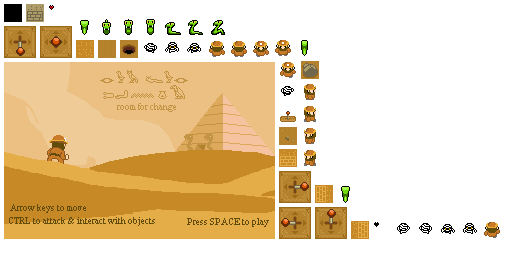
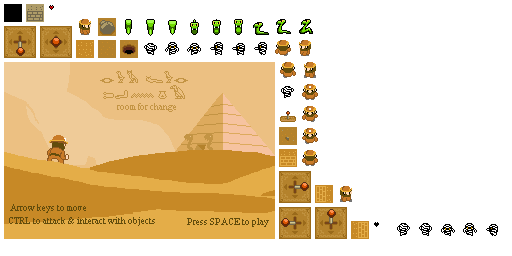
Added mummy textures

diff --git a/roomforchange/roomforchange/src/com/sturdyhelmetgames/roomforchange/assets/Assets.java b/roomforchange/roomforchange/src/com/sturdyhelmetgames/roomforchange/assets/Assets.java
@@ -44,6 +44,8 @@ public class Assets {
 
 	public static Animation mummyWalkFront;
 	public static Animation mummyWalkBack;
+	public static Animation mummyWalkLeft;
+	public static Animation mummyWalkRight;
 
 	public static Animation snakeWalkFront;
 	public static Animation snakeWalkBack;
@@ -154,16 +156,19 @@ public class Assets {
 				getGameObject("snake-left-1"), getGameObject("snake-left-2"),
 				getGameObject("snake-left-3") };
 		snakeWalkLeft = new Animation(0.1f, snakeLeftRegions);
-		final TextureRegion[] snakeRightRegions = new TextureRegion[snakeLeftRegions.length];
-		for (int i = 0; i < snakeLeftRegions.length; i++) {
-			snakeRightRegions[i] = new TextureRegion(snakeLeftRegions[i]);
-			snakeRightRegions[i].flip(true, false);
-		}
-		snakeWalkRight = new Animation(0.1f, snakeRightRegions);
+		snakeWalkRight = new Animation(0.1f,
+				flipRegionsHorizontally(snakeLeftRegions));
 
 		mummyWalkBack = new Animation(0.2f, new TextureRegion[] {
 				getGameObject("mummy-back-1"), getGameObject("mummy-back-2"),
 				getGameObject("mummy-back-3"), getGameObject("mummy-back-4"), });
+
+		TextureRegion[] mummyLeftRegions = new TextureRegion[] {
+				getGameObject("mummy-left-1"), getGameObject("mummy-left-2"),
+				getGameObject("mummy-left-3"), getGameObject("mummy-left-4"), };
+		mummyWalkLeft = new Animation(0.2f, mummyLeftRegions);
+		mummyWalkRight = new Animation(0.2f,
+				flipRegionsHorizontally(mummyLeftRegions));
 
 		playerWalkFront = new Animation(0.15f, new TextureRegion[] {
 				getGameObject("player-front-1"),
@@ -181,6 +186,16 @@ public class Assets {
 		playerWalkLeft = new Animation(0.2f,
 				new TextureRegion[] { getGameObject("player-left-1"),
 						getGameObject("player-left-2"), });
+	}
+
+	private static TextureRegion[] flipRegionsHorizontally(
+			final TextureRegion[] origRegions) {
+		final TextureRegion[] flippedRegions = new TextureRegion[origRegions.length];
+		for (int i = 0; i < origRegions.length; i++) {
+			flippedRegions[i] = new TextureRegion(origRegions[i]);
+			flippedRegions[i].flip(true, false);
+		}
+		return flippedRegions;
 	}
 
 	public static TextureRegion getFullGameObject(String objectName) {

diff --git a/roomforchange/roomforchange/src/com/sturdyhelmetgames/roomforchange/entity/Mummy.java b/roomforchange/roomforchange/src/com/sturdyhelmetgames/roomforchange/entity/Mummy.java
@@ -8,7 +8,7 @@ import com.badlogic.gdx.math.Vector2;
 import com.sturdyhelmetgames.roomforchange.assets.Assets;
 import com.sturdyhelmetgames.roomforchange.level.Level;
 
-public class Mummy extends Entity {
+public class Mummy extends Enemy {
 
 	private float ACCEL_MAX = 1f;
 	private float MAX_WALK_TIME = 3f;
@@ -32,8 +32,12 @@ public class Mummy extends Entity {
 
 		if (direction == Direction.UP) {
 			animation = Assets.mummyWalkBack;
-		} else {
+		} else if (direction == Direction.DOWN) {
 			animation = Assets.mummyWalkFront;
+		} else if (direction == Direction.RIGHT) {
+			animation = Assets.mummyWalkRight;
+		} else if (direction == Direction.LEFT) {
+			animation = Assets.mummyWalkLeft;
 		}
 
 		batch.draw(animation.getKeyFrame(stateTime, true), bounds.x, bounds.y,
@@ -58,14 +62,17 @@ public class Mummy extends Entity {
 				walkTime = 0;
 			}
 			if (walkTime == 0) {
-				if (MathUtils.randomBoolean()) {
+				float randomX = MathUtils.random(300);
+				if (randomX < 100) {
 					constantAccel.x = ACCEL_MAX;
-				} else {
+				} else if (randomX > 100 && randomX < 200) {
 					constantAccel.x = -ACCEL_MAX;
 				}
-				if (MathUtils.randomBoolean()) {
+
+				float randomY = MathUtils.random(300);
+				if (randomY < 100) {
 					constantAccel.y = ACCEL_MAX;
-				} else {
+				} else if (randomY > 100 && randomY < 200) {
 					constantAccel.y = -ACCEL_MAX;
 				}
 			} else {
@@ -78,10 +85,21 @@ public class Mummy extends Entity {
 		}
 		walkTime += fixedStep;
 
-		if (vel.y <= 0f) {
-			direction = Direction.DOWN;
+		float absVelX = Math.abs(vel.x);
+		float absVelY = Math.abs(vel.y);
+
+		if (absVelX >= absVelY) {
+			if (vel.x <= 0f) {
+				direction = Direction.LEFT;
+			} else if (vel.x >= 0f) {
+				direction = Direction.RIGHT;
+			}
 		} else {
-			direction = Direction.UP;
+			if (vel.y <= 0f) {
+				direction = Direction.DOWN;
+			} else if (vel.y >= 0f) {
+				direction = Direction.UP;
+			}
 		}
 	}
 

diff --git a/roomforchange/roomforchange/src/com/sturdyhelmetgames/roomforchange/entity/Player.java b/roomforchange/roomforchange/src/com/sturdyhelmetgames/roomforchange/entity/Player.java
@@ -9,12 +9,14 @@ import com.sturdyhelmetgames.roomforchange.level.Level.LevelTile;
 
 public class Player extends Entity {
 
-	private int health;
+	public float invulnerableTime = 0f;
+	public float maxInvulnerableTime = 4f;
+	public int health = 5;
+	public int maxHealth = 5;
 	private final Rectangle hitBounds = new Rectangle(0f, 0f, 0.8f, 0.8f);
 
 	public Player(float x, float y, Level level) {
 		super(x, y, 1f, 1f, level);
-		bounds.set(x, y, width - 0.2f, height - 0.2f);
 	}
 
 	@Override
@@ -43,8 +45,16 @@ public class Player extends Entity {
 
 	}
 
-	private static final float HIT_DISTANCE = 1f;
-	private final Rectangle hitTileRect = new Rectangle(0f, 0f, 1f, 1f);
+	@Override
+	public void update(float fixedStep) {
+		super.update(fixedStep);
+
+		if (invulnerableTime > 0f) {
+			invulnerableTime -= fixedStep;
+		}
+	}
+
+	private static final float HIT_DISTANCE = 0.5f;
 
 	public void tryHit() {
 		hitBounds.x = bounds.x;
@@ -64,11 +74,40 @@ public class Player extends Entity {
 			entity.hit(hitBounds);
 		}
 
+		// double the hit distance for tiles
+		if (direction == Direction.LEFT) {
+			hitBounds.x -= HIT_DISTANCE;
+		} else if (direction == Direction.RIGHT) {
+			hitBounds.x += HIT_DISTANCE;
+		} else if (direction == Direction.UP) {
+			hitBounds.y += HIT_DISTANCE;
+		} else if (direction == Direction.DOWN) {
+			hitBounds.y -= HIT_DISTANCE;
+		}
+
 		LevelTile tile = level.getTiles()[(int) hitBounds.x][(int) hitBounds.y];
 		if (tile.type == Level.LevelTileType.LEVER) {
 			level.gameScreen.openLeverScreen();
 		}
 
+	}
+
+	public void takeDamage() {
+		if (!isInvulnerable()) {
+			health--;
+			invulnerableTime = maxInvulnerableTime;
+		}
+		if (health <= 0) {
+			state = EntityState.DYING;
+		}
+	}
+
+	public void gainHealth() {
+		health++;
+	}
+
+	public boolean isInvulnerable() {
+		return invulnerableTime > 0f;
 	}
 
 }

diff --git a/roomforchange/roomforchange/src/com/sturdyhelmetgames/roomforchange/screen/GameScreen.java b/roomforchange/roomforchange/src/com/sturdyhelmetgames/roomforchange/screen/GameScreen.java
@@ -13,6 +13,7 @@ import com.badlogic.gdx.math.Vector2;
 import com.sturdyhelmetgames.roomforchange.RoomForChangeGame;
 import com.sturdyhelmetgames.roomforchange.assets.Assets;
 import com.sturdyhelmetgames.roomforchange.entity.Entity.Direction;
+import com.sturdyhelmetgames.roomforchange.entity.Player;
 import com.sturdyhelmetgames.roomforchange.level.Level;
 import com.sturdyhelmetgames.roomforchange.tween.Vector3Accessor;
 import com.sturdyhelmetgames.roomforchange.util.LabyrinthUtil;
@@ -76,6 +77,25 @@ public class GameScreen extends Basic2DScreen {
 		spriteBatch.setProjectionMatrix(camera.combined);
 		spriteBatch.begin();
 		level.render(delta, spriteBatch, false);
+
+		// calculate heart positions
+		final float heartPositionX = camera.position.x - 5.9f;
+		final float heartPositionY = camera.position.y + 2.9f;
+		// draw player health
+		final Player player = level.player;
+		if (player != null) {
+			for (int i = 0; i < player.maxHealth; i++) {
+				final float x = heartPositionX + i * 0.55f;
+				if (i < player.health) {
+					spriteBatch.draw(Assets.getGameObject("heart-full"), x,
+							heartPositionY, 1f, 1f);
+				} else {
+					spriteBatch.draw(Assets.getGameObject("heart-empty"), x,
+							heartPositionY, 1f, 1f);
+				}
+			}
+		}
+
 		spriteBatch.end();
 
 		batchMiniMap.setProjectionMatrix(cameraMiniMap.combined);

diff --git a/roomforchange/roomforchange/src/com/sturdyhelmetgames/roomforchange/entity/Enemy.java b/roomforchange/roomforchange/src/com/sturdyhelmetgames/roomforchange/entity/Enemy.java
@@ -1,0 +1,19 @@
+package com.sturdyhelmetgames.roomforchange.entity;
+
+import com.sturdyhelmetgames.roomforchange.level.Level;
+
+public class Enemy extends Entity {
+
+	public Enemy(float x, float y, float width, float height, Level level) {
+		super(x, y, width, height, level);
+	}
+
+	@Override
+	public void update(float fixedStep) {
+		super.update(fixedStep);
+
+		if (bounds.overlaps(level.player.bounds)) {
+			level.player.takeDamage();
+		}
+	}
+}

diff --git a/roomforchange/roomforchange/src/com/sturdyhelmetgames/roomforchange/entity/Snake.java b/roomforchange/roomforchange/src/com/sturdyhelmetgames/roomforchange/entity/Snake.java
@@ -7,7 +7,7 @@ import com.badlogic.gdx.math.Rectangle;
 import com.sturdyhelmetgames.roomforchange.assets.Assets;
 import com.sturdyhelmetgames.roomforchange.level.Level;
 
-public class Snake extends Entity {
+public class Snake extends Enemy {
 
 	public Snake(float x, float y, Level level) {
 		super(x, y, 1f, 1f, level);

diff --git a/roomforchange/roomforchange/src/com/sturdyhelmetgames/roomforchange/entity/Entity.java b/roomforchange/roomforchange/src/com/sturdyhelmetgames/roomforchange/entity/Entity.java
@@ -75,7 +75,7 @@ public class Entity {
 		this.level = level;
 		this.width = width;
 		this.height = height;
-		bounds.set(x, y, width, height);
+		bounds.set(x, y, width - 0.2f, height - 0.2f);
 		state = EntityState.IDLE;
 	}
 
